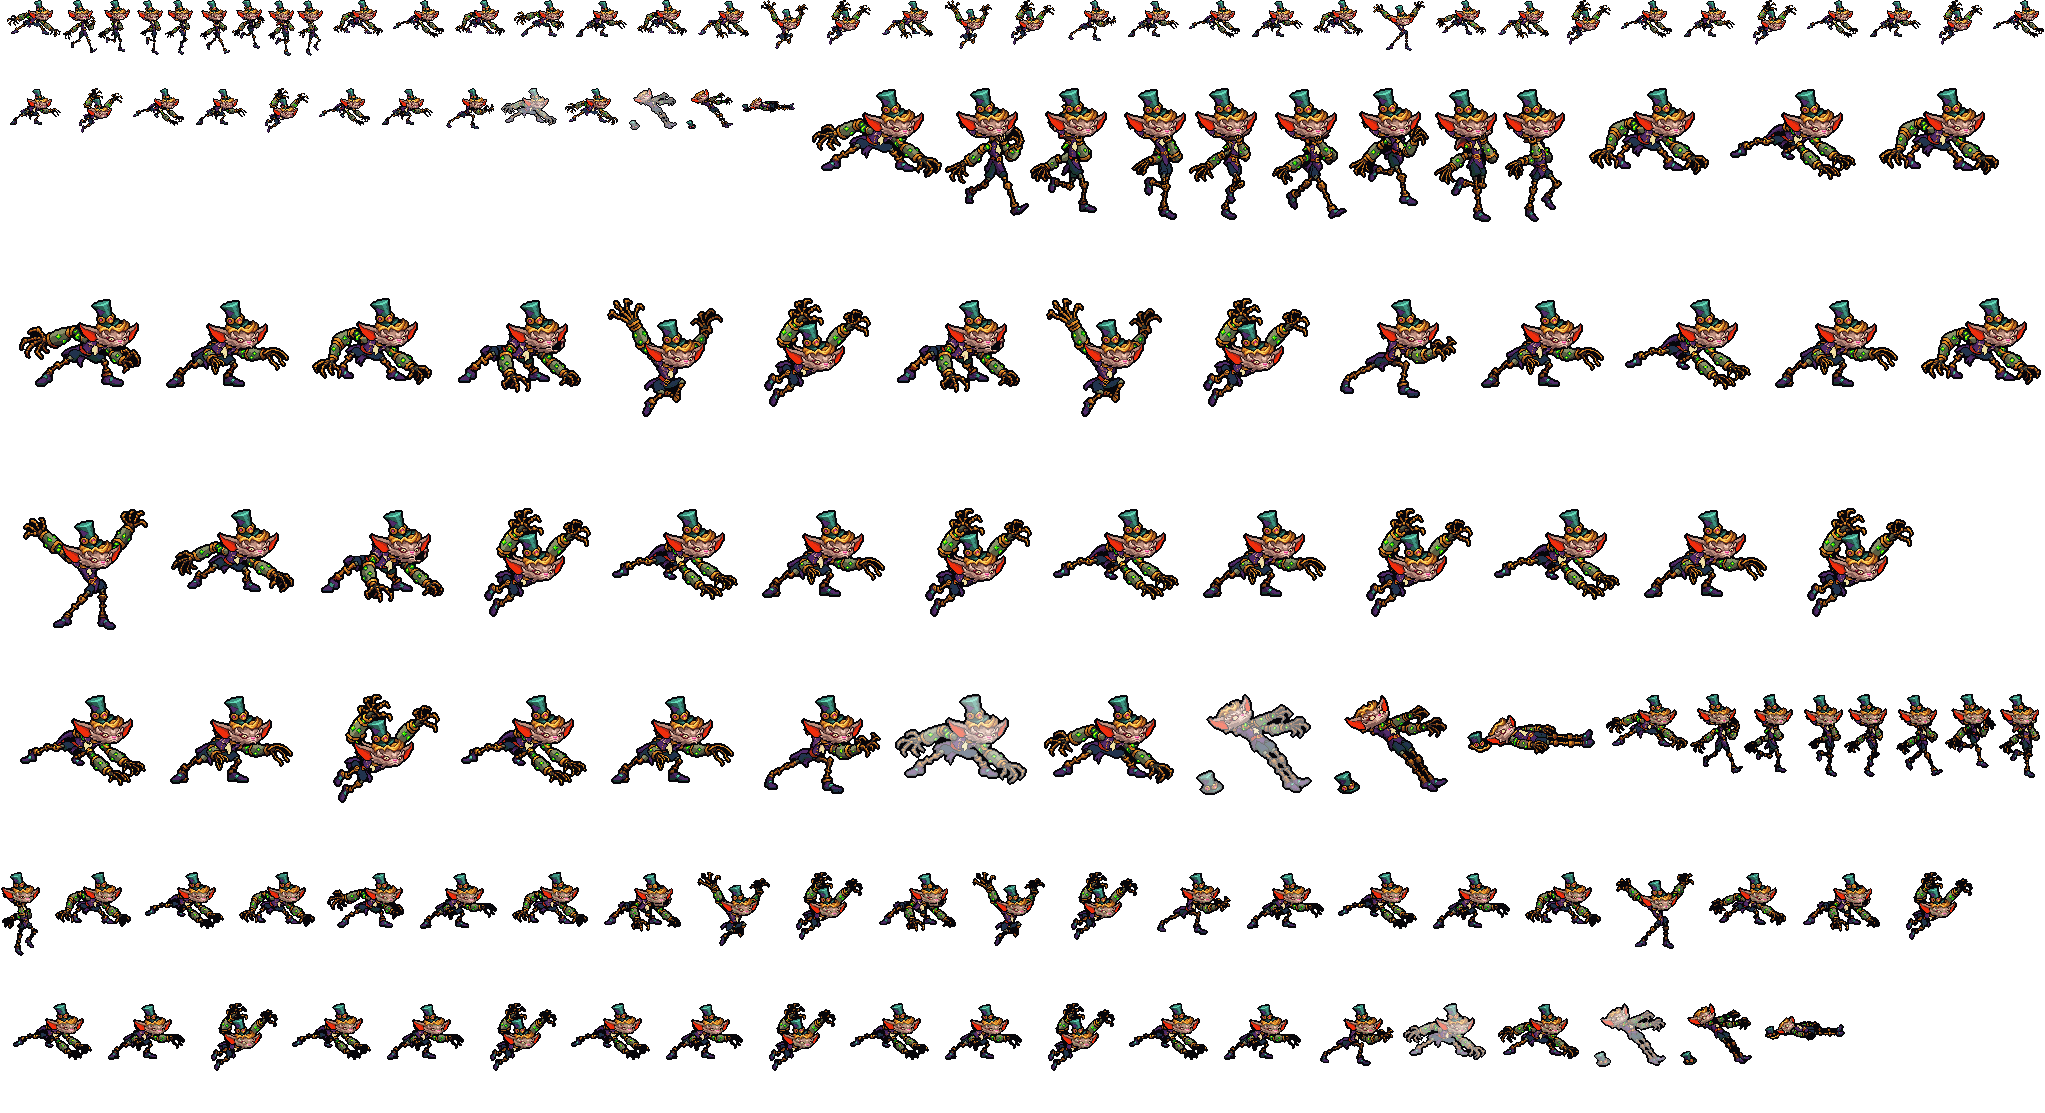
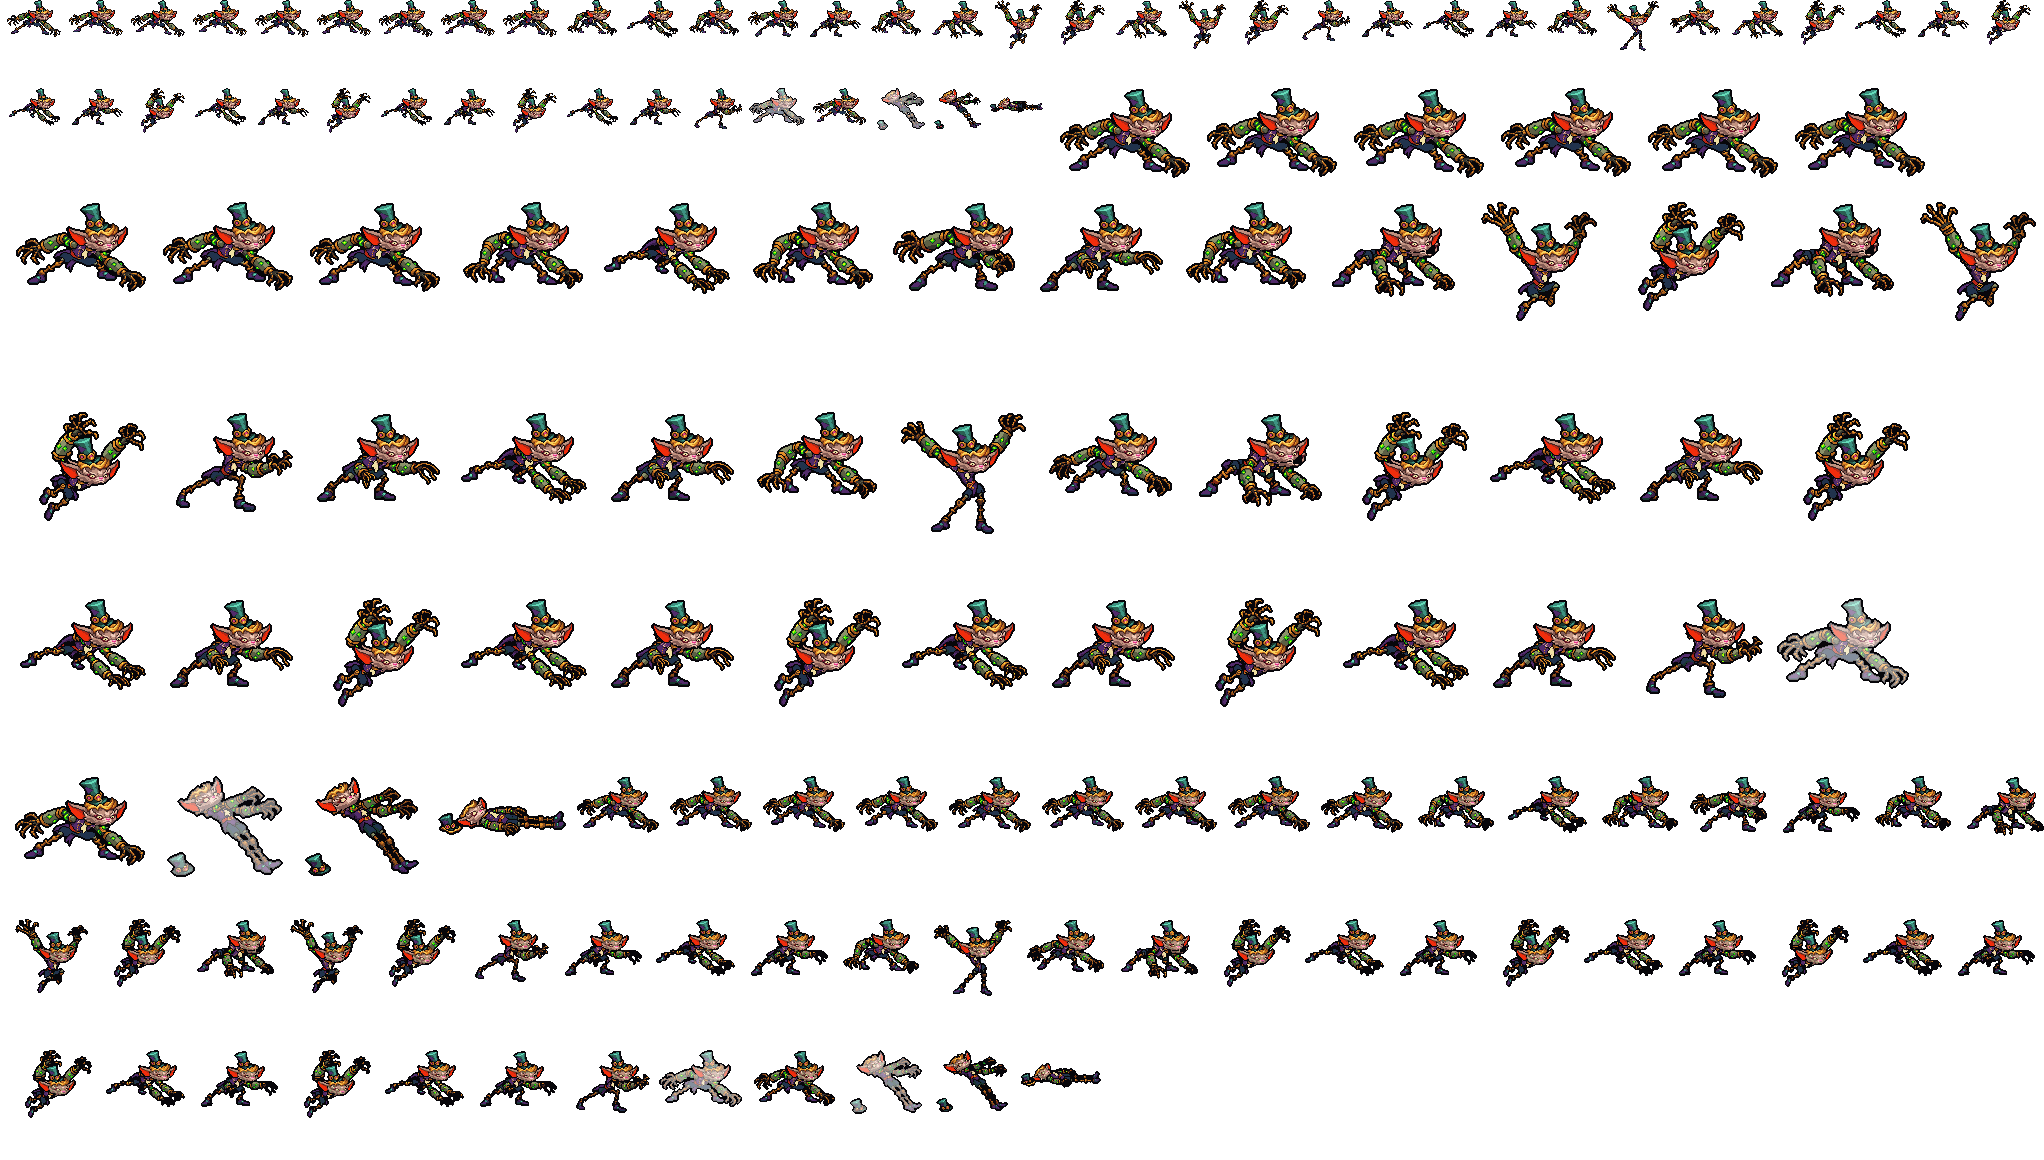
Smeech's walk: the pack's walk on the idle instead of Codex's run drafts
The user: 「还是变形吧 你能好好修吗」. Codex drew run1-8 one by one - the body, the arms and the stilts a different
size and bend in every frame - so no head placement could hold them together. Now the design walks as it
stands (league_braum / league_galio's approved walk): head, coat and both claws as they are, the design's own
two stilt legs (exact masks: their coloured squares joined to the shoe, their own outline only) lifted and
swung forward 0-5 squares, then sliding back planted, each only on the side its top hides under the shorts;
the outline closed round the moved legs, a 1-2 square bob. No part turned, sheared or redrawn; no height
pop between the idle and the walk. Only the walk changed.

Changed region(s): [[0.0, 0.0, 1.0, 0.7637], [0.0, 0.7637, 1.0, 0.8553], [0.0, 0.8859, 0.8938, 0.9775]]

diff --git a/tools/art/rig_smeech.py b/tools/art/rig_smeech.py
@@ -10,7 +10,8 @@ The pictures (tools/art/design_smeech_model.py, design_smeech_poses.py):
   hd/idle.png         Smeech in his ambush crouch, claws spread, 3/4 facing right, 128 x 87 at PPU 2.4 (36 game px,
                       the hat to the claws' tips): the idle and the hit;
   hd/pose_<name>.png  Codex's key poses with the design's head (assets/source/smeech/POSE_PROMPTS.md): a_rake a_back
-                      a_wind2 a_thrust q_crouch q_air q_dive q_land e_wind e_rip d_fall d_down, and run1-8, his TFT walk.
+                      a_wind2 a_thrust q_crouch q_air q_dive q_land e_wind e_rip d_fall d_down (its run1-8 are not used:
+                      the walk below).
 Placing a pose: Codex drew every pose on the pack's 9 px grid where its reference put it (tools/art/pack_smeech_poses.py:
 the design pose's pelvis on one column, the lowest point on the ground line, the design itself from square DESIGN_AT),
 so each pose goes across where Codex drew it (its grid_at, less the design's square). Up and down every standing pose
@@ -19,7 +20,14 @@ stands on its SOLES (the lowest row of his shoes' purples, SHOES), on the design
 line - so a claw never pushes him up, and nothing goes lower than the design's claw tips (a_rake's raised back foot
 would sink him); the leap's frames are lifted by LIFT, the falls lie on the ground (their lowest
 square on the design's soles' row). The pivot (the line he stands on) is the middle of the design's stance (PIVOT).
-The walk: every frame on its soles, its head on one column (the frames' middles on the pivot on average).
+The walk is the pack's approved walk on the idle (league_braum / league_galio: 「你按照泰坦布隆那种走路方式这种腿就不会变形」),
+not Codex's run1-8: those eight drafts were drawn one by one, the body, the arms and the stilts a different size and
+bend in every frame (the user, 2026-10-29: 「走路时身体和头有点不协调」, then 「还是变形吧 你能好好修吗」). So the design walks as it
+stands - his ambush crouch creeping forward: the head, the coat, both claws as they are, and the design's own two stilt
+legs (WALK_BACK, the image-left one, and WALK_FRONT, cut round the near arm's bracer and claw); in each frame a leg is
+lifted and swung forward or slides back planted (WALK, whole squares: never turned, sheared or redrawn), the legs take
+turns, the figure bobs a square or two; the slits a step opens take the outline. No height pop between the idle and the
+walk either (Codex's run stood 127 rows tall on straight stilts, the crouch 87).
 """
 import argparse
 import json
@@ -28,6 +36,7 @@ import sys
 
 import numpy as np
 from PIL import Image
+from scipy import ndimage
 
 HERE = os.path.dirname(os.path.abspath(__file__))
 ROOT = os.path.dirname(os.path.dirname(HERE))
@@ -46,8 +55,24 @@ POSES = ("a_rake", "a_back", "a_wind2", "a_thrust", "q_crouch", "q_air", "q_dive
          "d_fall", "d_down")
 FALLS = ("d_fall", "d_down")
 LIFT = {"q_air": 14, "q_dive": 8}         # rows his soles leave the ground in the leap
-RUN = [f"run{k}" for k in range(1, 9)]
 RUN_MS = 125                              # his TFT walk: 1000 ms the cycle, 8 frames
+# the design's two stilt legs: where to look for each (design rows r0-r1, columns c0-c1, ends exclusive; read at 18-22x,
+# 2026-10-29) - the back (image-left) leg from the knob under the shorts down to its shoe, clear of the far claw's
+# finger tips (rows <= 60, columns <= 30) and the coat's tail (columns >= 48); the front leg from under the shorts down
+# to its shoe, below the near arm's bracer (columns >= 89 down to row 69). In those boxes a leg is its coloured squares
+# joined to its shoe (a claw's tip inside a box is not) and the outline squares that border only it: an outline square
+# it shares with the bracer, a claw or the shorts stays with the body (leg_mask)
+WALK_BACK = ((53, 59, 36, 46), (59, 82, 31, 48), (61, 82, 8, 31))
+WALK_FRONT = ((60, 62, 79, 89), (62, 82, 76, 89), (67, 70, 89, 92), (70, 82, 89, 102))
+# per frame: the back leg's (squares forward, squares lifted), the front leg's, the figure's rise. A leg swings forward
+# lifted (3 / 5 / 3 squares) for three frames and lands, then slides back planted for four as he moves on; the front leg
+# four frames after the back one. Each leg moves only on the side its top hides under the shorts - the back leg from
+# its design place up to 5 squares forward, the front leg up to 5 back - so no slit opens at a hip. Strides of 5 squares
+# (2 game px at PPU 2.4), league_braum's and league_galio's walk scale (league_nautilus's 1x steps x PPU)
+WALK_BACK_LEG = [(1, 3), (3, 5), (5, 3), (5, 0), (4, 0), (2, 0), (1, 0), (0, 0)]
+WALK_FRONT_LEG = [(dx - 5, lift) for dx, lift in WALK_BACK_LEG]
+WALK = [(WALK_BACK_LEG[i], WALK_FRONT_LEG[(i + 4) % 8], (1, 2, 1, 0, 1, 2, 1, 0)[i]) for i in range(8)]
+CRACK = 2                                 # enclosed bare squares a step leaves between a leg and the body, at most
 
 
 def lp(path):
@@ -76,9 +101,8 @@ class Canvas:
         self.d = load("idle.png")
         d = self.d
         self.sole = soles(d)
-        self.run_head = self.run_head_column()
-        lefts, rights, tops, bottoms = [0], [d.shape[1]], [0], [d.shape[0]]
-        for n in RUN + list(POSES):
+        lefts, rights, tops, bottoms = [-4], [d.shape[1] + 4], [-8], [d.shape[0]]
+        for n in POSES:
             p, (left, top) = self.place(n)
             lefts.append(left)
             rights.append(left + p.shape[1])
@@ -94,19 +118,11 @@ class Canvas:
         self.rig = R.Rig(D, pad=pad)
         self.outline = D.outline
 
-    def run_head_column(self):
-        """The design's column for the walk's head boxes: the frames' middles on the pivot, on average."""
-        mids = [load(f"pose_{n}.png").shape[1] / 2 - meta(n)["head_at"][0] for n in RUN]
-        return round(PIVOT - sum(mids) / len(mids))
-
     def place(self, name):
-        """(picture, its top-left relative to the design's): across where Codex drew it (a walk frame: its head on the
-        walk's column), its soles on the design's (a fall: its lowest square there) less its lift."""
+        """(picture, its top-left relative to the design's): across where Codex drew it, its soles on the design's (a
+        fall: its lowest square there) less its lift."""
         p = load(f"pose_{name}.png")
-        if name in RUN:
-            left = self.run_head - meta(name)["head_at"][0]
-        else:
-            left = round(meta(name)["grid_at"][0] - DESIGN_AT[0])
+        left = round(meta(name)["grid_at"][0] - DESIGN_AT[0])
         foot = p.shape[0] if name in FALLS else soles(p)
         top = self.sole - foot - LIFT.get(name, 0)
         # nothing lower than the design's claw tips: a_rake lunges on a raised back foot, its soles would sink him
@@ -129,6 +145,58 @@ class Canvas:
         can[ty, tx] = d[ys, xs]
         return R.flash(can) if flash else can
 
+    def leg_mask(self, idle, boxes):
+        """(the leg's squares, its coloured squares) on the idle canvas: in `boxes`, the coloured (not outline)
+        squares joined to the shoe's purples, and the outline squares that touch them and no other coloured square."""
+        rig = self.rig
+        H, W = idle.shape[:2]
+        box = np.zeros((H, W), bool)
+        for r0, r1, c0, c1 in boxes:
+            box[rig.oy + r0:rig.oy + r1, rig.ox + c0:rig.ox + c1] = True
+        op = idle[..., 3] > 0
+        ink = op & np.all(idle[..., :3] == self.outline[:3], axis=-1)
+        colour = op & ~ink
+        lb, n = ndimage.label(colour & box, np.ones((3, 3)))
+        shoe = np.zeros((H, W), bool)
+        for c in SHOES:
+            shoe |= np.all(idle[..., :3] == c, axis=-1)
+        core = np.isin(lb, [k for k in range(1, n + 1) if ((lb == k) & shoe).any()])
+        touch = lambda m: ndimage.binary_dilation(m, np.ones((3, 3)))
+        rim = ink & box & touch(core) & ~touch(colour & ~core)
+        return core | rim, core
+
+    def walk(self, back_step, front_step, rise):
+        """The idle canvas with the legs stepping: each leg's squares moved (dx, -lift), the back leg first, the front
+        one over it, the body over both; then the outline closed round the moved legs (a square of background touching
+        a leg's coloured square across or up and down takes the outline) and the few enclosed bare squares a step
+        leaves between a leg and the body filled with it; the whole frame `rise` rows up."""
+        idle = self.frame("idle")
+        legs = [(self.leg_mask(idle, WALK_BACK), back_step), (self.leg_mask(idle, WALK_FRONT), front_step)]
+        body = idle.copy()
+        for (m, _), _ in legs:
+            body[m] = 0
+        out = np.zeros_like(idle)
+        moved = np.zeros(idle.shape[:2], bool)
+        for (m, core), (dx, lift) in legs:
+            ys, xs = np.nonzero(m)
+            out[ys - lift, xs + dx] = idle[ys, xs]
+            cy, cx = np.nonzero(core)
+            moved[cy - lift, cx + dx] = True
+        mb = body[..., 3] > 0
+        out[mb] = body[mb]
+        moved &= ~mb
+        ink = (*[int(v) for v in self.outline[:3]], 255)
+        bare = out[..., 3] == 0
+        cross = np.array([[0, 1, 0], [1, 1, 1], [0, 1, 0]], bool)
+        out[bare & ndimage.binary_dilation(moved, cross)] = ink
+        own = ndimage.binary_fill_holes(idle[..., 3] > 0) & ~(idle[..., 3] > 0)
+        wop = out[..., 3] > 0
+        lab, n = ndimage.label(ndimage.binary_fill_holes(wop) & ~wop & ~own)
+        for k in range(1, n + 1):
+            if (lab == k).sum() <= CRACK:
+                out[lab == k] = ink
+        return np.roll(out, -rise, axis=0)
+
 
 # ms per frame; the kit's ticks (tools/kit/build_smeech.py) match these (a frame's start in ticks = ms x 0.06):
 # attack / attack2 367 ms = atk_dur 22, the rake lands on atk_st 10 (167 ms: inside a_rake / a_thrust, from 100 ms);
@@ -138,7 +206,7 @@ class Canvas:
 # first frame); Scrap Frenzy 1200 ms = r_dur 72, a hop every r_gap 12 ticks from r_st 6 (100, 300 ... 900 ms: each a
 # dive's first frame, then a rake and a thrust), landed at the end
 HOP = [("q_dive", 67), ("a_rake", 67), ("a_thrust", 66)]
-MS = {"idle": [1000], "run": [RUN_MS] * len(RUN), "attack": [100, 150, 117], "attack2": [100, 150, 117],
+MS = {"idle": [1000], "run": [RUN_MS] * len(WALK), "attack": [100, 150, 117], "attack2": [100, 150, 117],
       "leap": [83, 83, 67], "skill": [83, 83, 67], "stabs": [133, 133, 134, 133, 134], "skill2": [167, 233],
       "ult": [100] + [ms for _ in range(5) for _, ms in HOP] + [100], "hit": [100, 100], "dead": [140, 260, 600]}
 
@@ -147,7 +215,7 @@ def actions(C):
     f = C.frame
     out = {}
     out["idle"] = [f("idle")]
-    out["run"] = [f(n) for n in RUN]
+    out["run"] = [C.walk(b, fr, r) for b, fr, r in WALK]
     # the near claw's rake (gathered, raked out, pulled in) and the far claw's thrust (drawn back, driven out)
     out["attack"] = [f("a_back"), f("a_rake"), f("a_back")]
     out["attack2"] = [f("a_wind2"), f("a_thrust"), f("a_back")]
